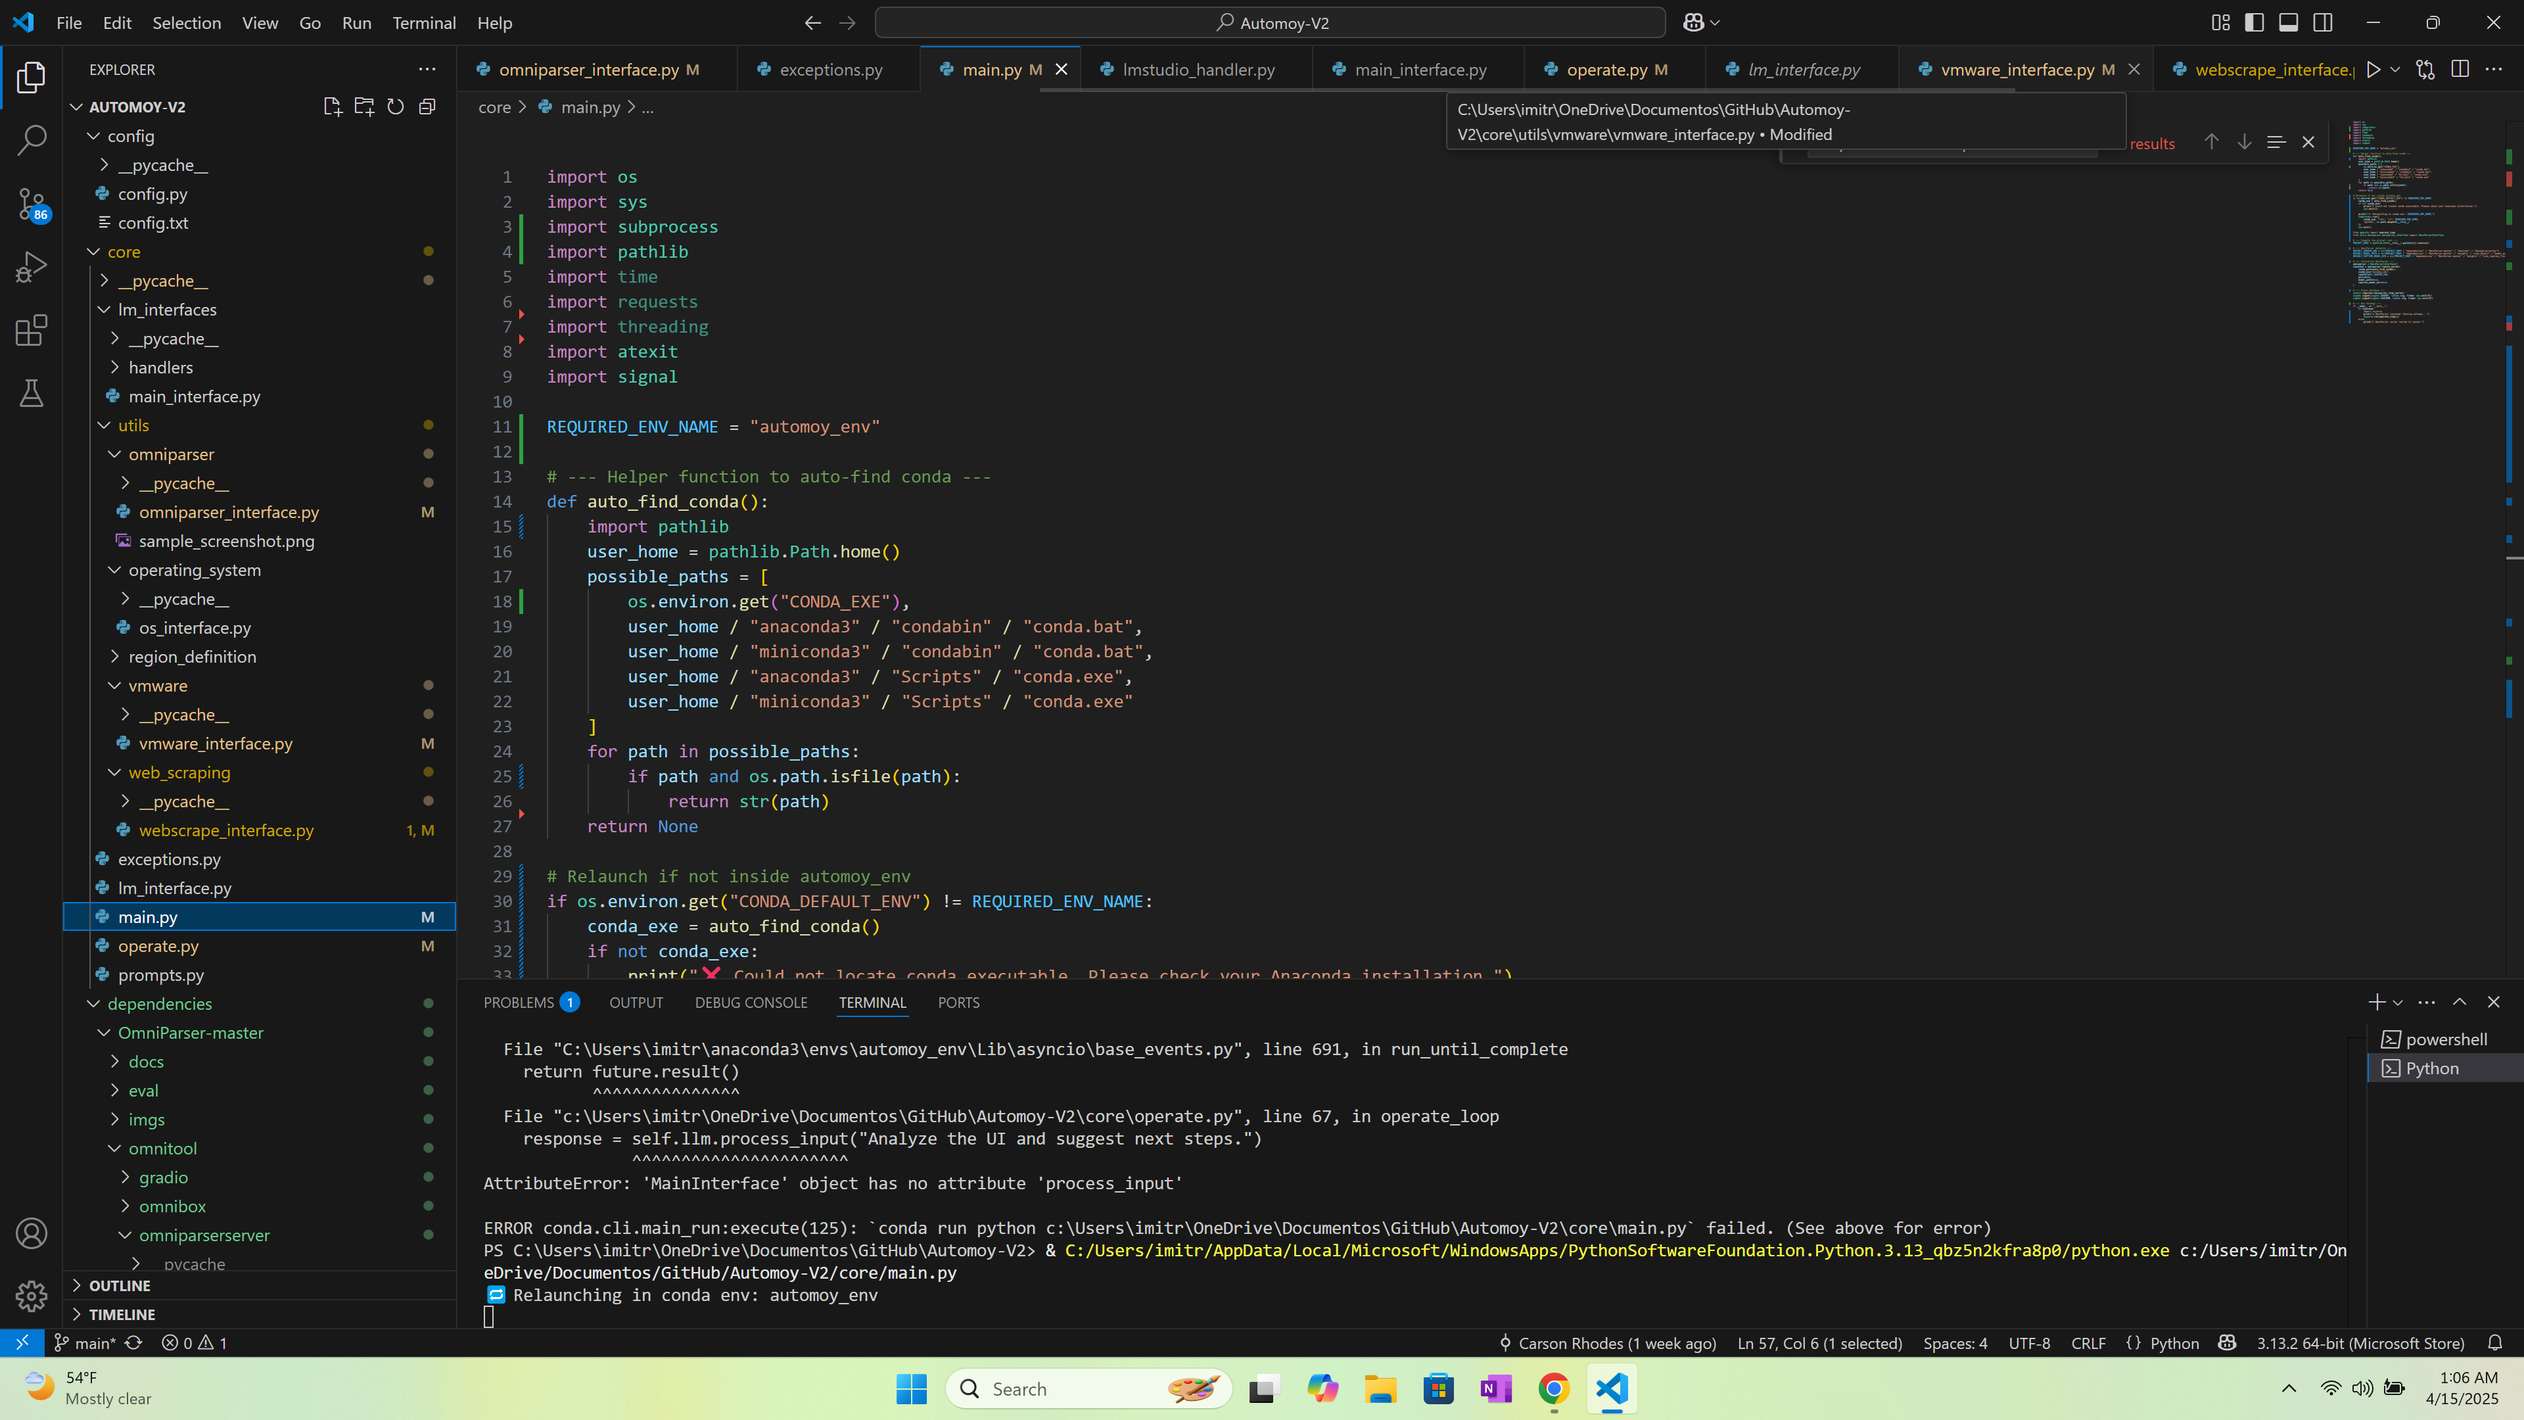
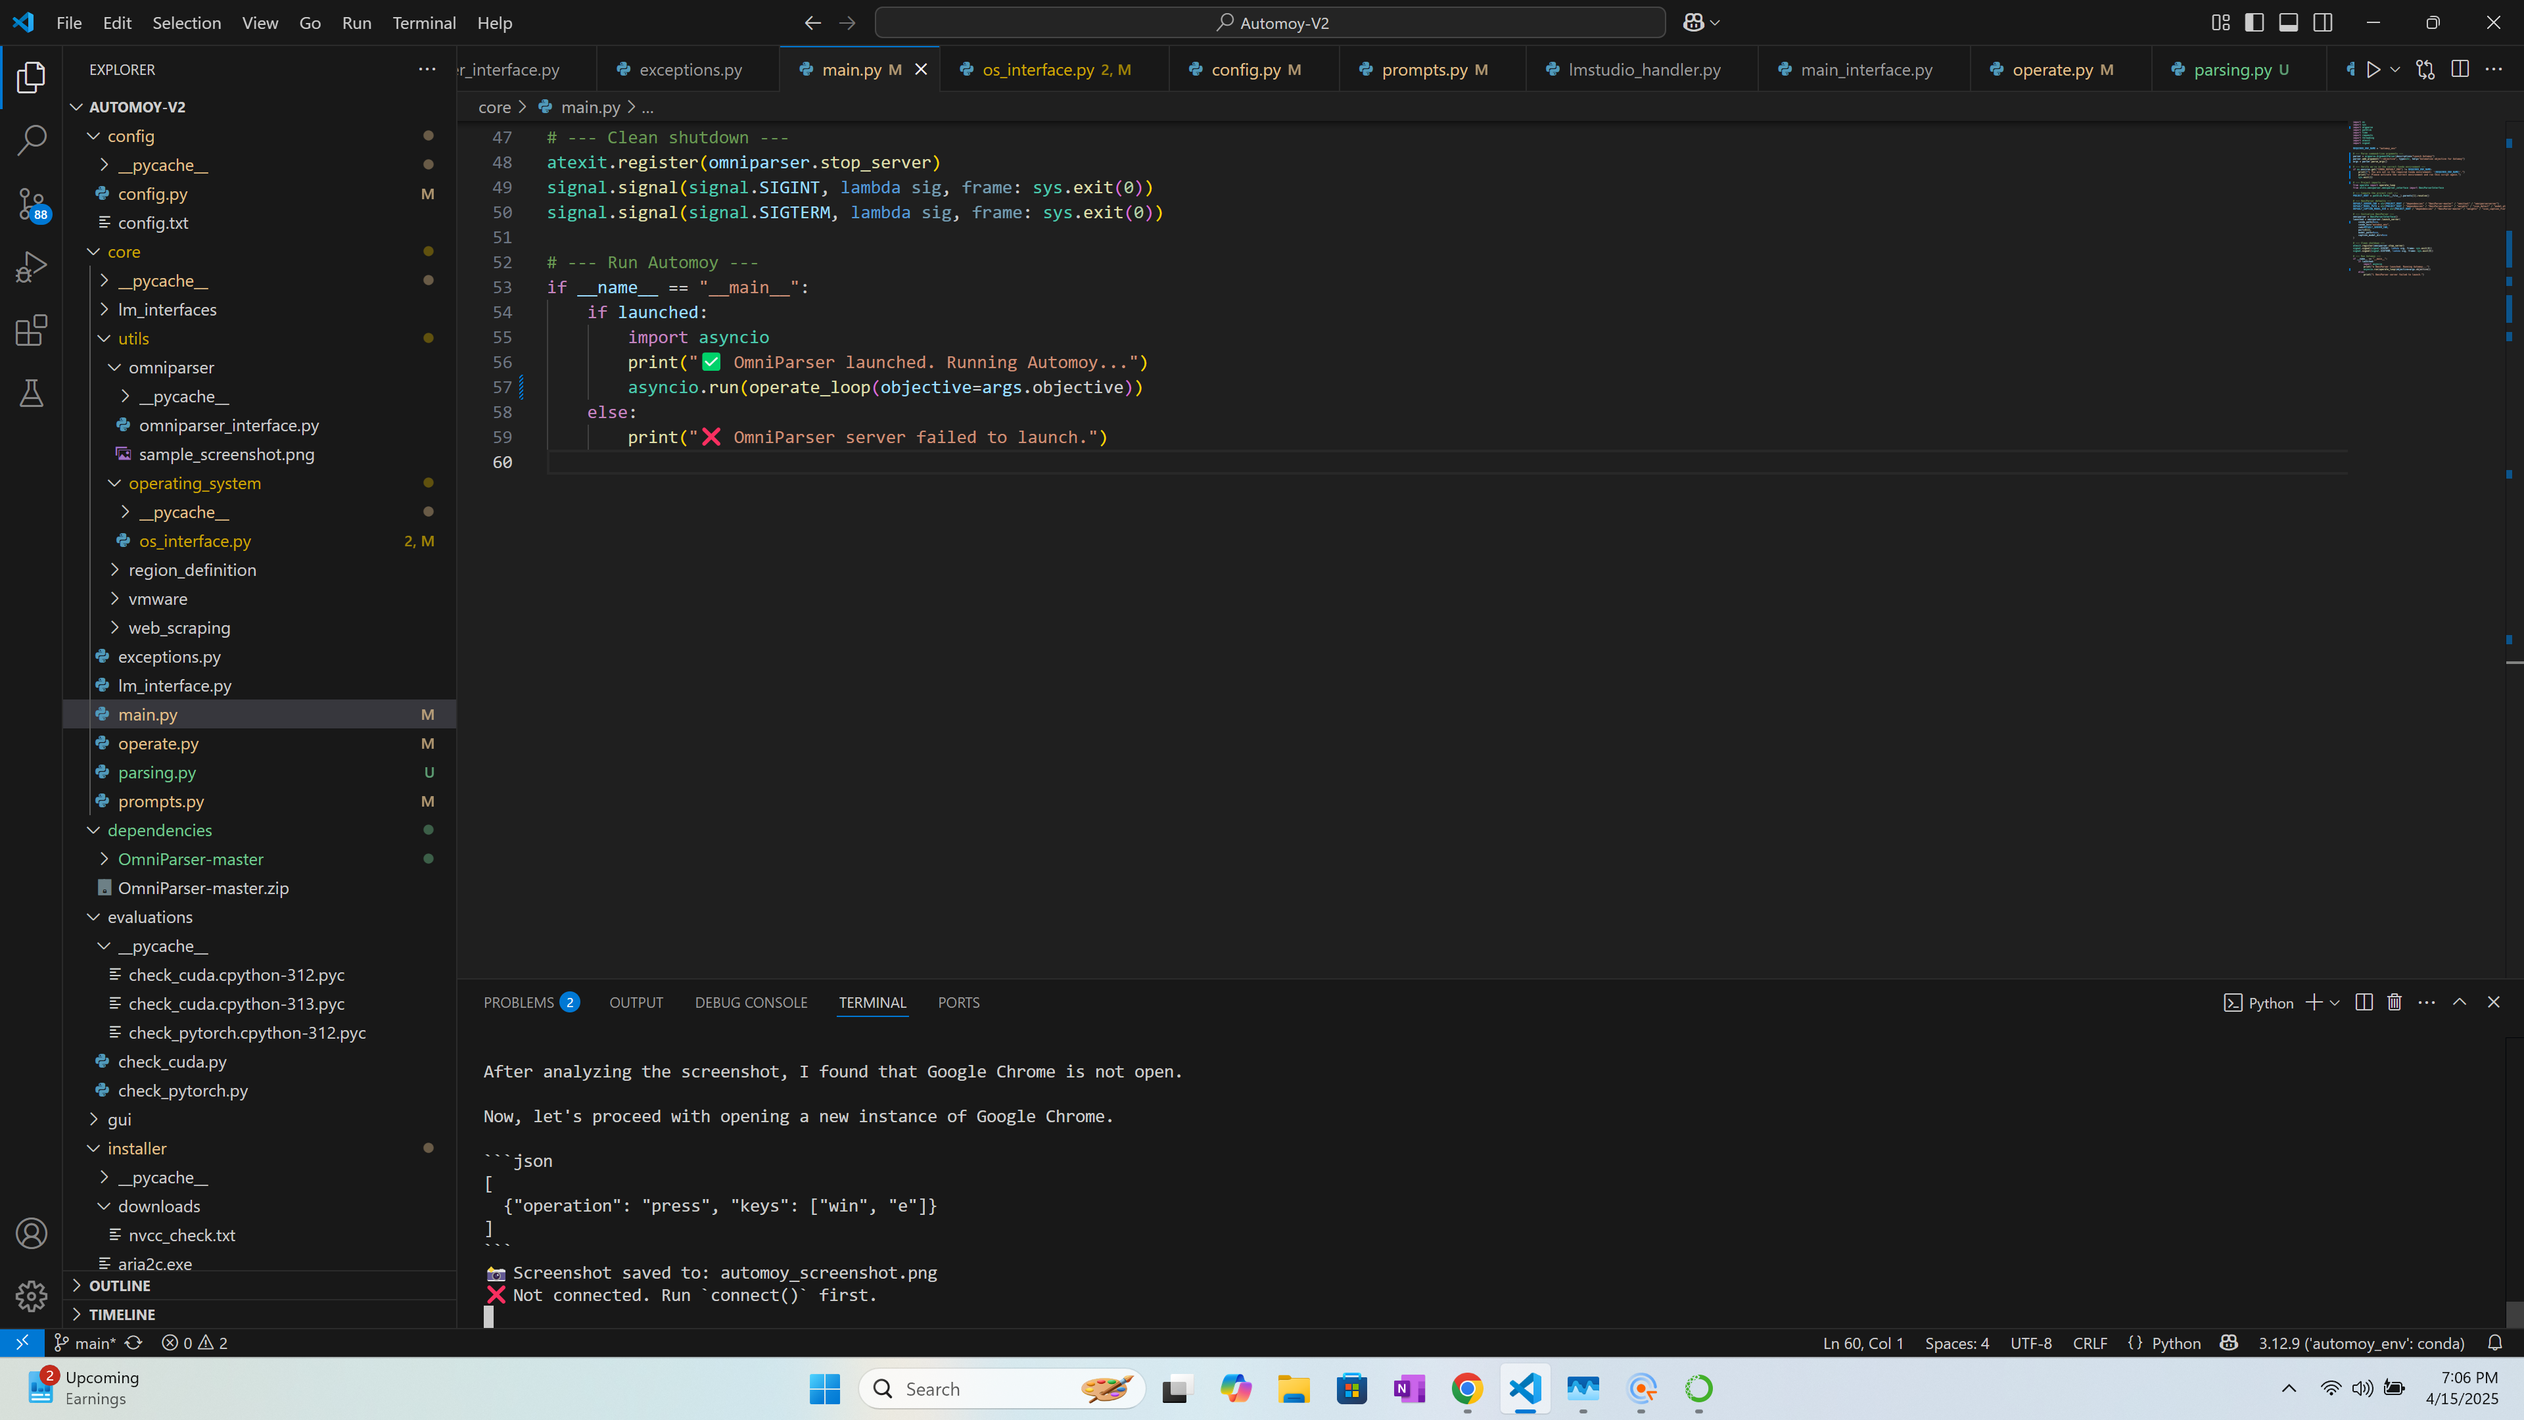
Much further along, now just resolve omniparser bugs and make a interaction layer for the screen and the selected region.

diff --git a/core/operate.py b/core/operate.py
@@ -1,22 +1,32 @@
 import asyncio
 import time
+import json
+import re
 from utils.operating_system.os_interface import OSInterface
 from utils.omniparser.omniparser_interface import OmniParserInterface
 from utils.vmware.vmware_interface import VMWareInterface
 from utils.web_scraping.webscrape_interface import WebScrapeInterface
 from lm_interfaces.main_interface import MainInterface
+from prompts import get_system_prompt
+from parsing import handle_llm_response  # 🔧 new import
+import sys
+import pathlib
+
+sys.path.append(str(pathlib.Path(__file__).resolve().parents[1] / "config"))
+from config import Config
 
 class AutomoyOperator:
-    def __init__(self):
-        """Initialize Automoy's core interfaces."""
+    def __init__(self, objective=None):
         self.os_interface = OSInterface()
         self.omniparser = OmniParserInterface()
-        self.vmware = VMWareInterface("localhost", "user", "password")  # replace with real creds if needed
+        self.vmware = VMWareInterface("localhost", "user", "password")
         self.webscraper = WebScrapeInterface()
         self.llm = MainInterface()
+        self.config = Config()
+        self.model = self.config.get("MODEL", "gpt-4")
+        self.objective = objective
 
     async def startup_sequence(self):
-        """Run startup checks and ensure all modules are ready."""
         print("🚀 Automoy Starting Up...")
         print(f"Detected OS: {self.os_interface.os_type}")
 
@@ -34,13 +44,18 @@ class AutomoyOperator:
         print("✅ All systems ready!")
 
     async def operate_loop(self):
-        """Main operational loop of Automoy."""
         await self.startup_sequence()
         print("🔥 Entering Automoy Autonomous Operation Mode!")
 
+        if not self.objective:
+            try:
+                self.objective = input("🎯 Enter your automation objective: ")
+            except EOFError:
+                self.objective = "Default objective - Automate screen flow"
+                print("⚠ No input received. Using default objective.")
+
         while True:
             try:
-                # 1. Screenshot -> OmniParser -> Click Buttons
                 screenshot_path = self.os_interface.take_screenshot("automoy_screenshot.png")
                 ui_data = self.omniparser.parse_screenshot(screenshot_path)
 
@@ -50,7 +65,6 @@ class AutomoyOperator:
                         content = entry.get("content", "")
                         position = entry.get("position", {})
                         x, y = position.get("x"), position.get("y")
-
                         print(f" - [{entry['type'].upper()}] '{content}' at ({x}, {y})")
 
                         if entry["type"] == "button":
@@ -58,31 +72,27 @@ class AutomoyOperator:
                             self.os_interface.click_mouse()
                             time.sleep(0.5)
 
-                # 2. Web scraping (real logic)
                 raw_html_text = self.webscraper.fetch_page_content("https://example.com")
                 if raw_html_text:
                     print("🌐 Scraped Content Preview:", raw_html_text[:300])
 
-                # 3. Ask LLM (placeholder)
-                messages = ["Analyze the UI and suggest next steps."]
-                objective = "Autonomously control and interpret UI"
-                session_id = "session-001"
-                screenshot_path = "automoy_screenshot.png"
+                system_prompt = get_system_prompt(self.model, self.objective)
+                messages = [
+                    {"role": "system", "content": system_prompt},
+                    {"role": "user", "content": "Analyze the UI and suggest next steps."}
+                ]
 
-                response, _, _ = await self.llm.get_next_action(
-                    model="gpt-4",
+                response_text, _, _ = await self.llm.get_next_action(
+                    model=self.model,
                     messages=messages,
-                    objective=objective,
-                    session_id=session_id,
+                    objective=self.objective,
+                    session_id="automoy-session-1",
                     screenshot_path=screenshot_path
                 )
-                print("🤖 LLM Response:", response)
 
-                # 4. Basic OS automation
-                self.os_interface.press("enter")
-                print("⌨ Simulated Enter Key Press")
+                print("🧠 LLM Response:", response_text)
+                handle_llm_response(response_text, self.os_interface)
 
-                # 5. VMWare Integration (optional)
                 vm_list = self.vmware.list_vms()
                 if vm_list:
                     print("🖥 Available VMs:", vm_list)
@@ -93,9 +103,8 @@ class AutomoyOperator:
                 print("\n🛑 Automoy Operation Halted.")
                 break
 
-# Module-level callable for external run
-def operate_loop():
-    operator = AutomoyOperator()
+def operate_loop(objective=None):
+    operator = AutomoyOperator(objective=objective)
     return operator.operate_loop()
 
 if __name__ == "__main__":

diff --git a/core/main.py b/core/main.py
@@ -1,6 +1,6 @@
 import os
 import sys
-import subprocess
+import argparse
 import pathlib
 import time
 import requests
@@ -10,36 +10,18 @@ import signal
 
 REQUIRED_ENV_NAME = "automoy_env"
 
-# --- Helper function to auto-find conda ---
-def auto_find_conda():
-    import pathlib
-    user_home = pathlib.Path.home()
-    possible_paths = [
-        os.environ.get("CONDA_EXE"),
-        user_home / "anaconda3" / "condabin" / "conda.bat",
-        user_home / "miniconda3" / "condabin" / "conda.bat",
-        user_home / "anaconda3" / "Scripts" / "conda.exe",
-        user_home / "miniconda3" / "Scripts" / "conda.exe"
-    ]
-    for path in possible_paths:
-        if path and os.path.isfile(path):
-            return str(path)
-    return None
+# --- Parse command-line arguments ---
+parser = argparse.ArgumentParser(description="Launch Automoy")
+parser.add_argument("--objective", type=str, help="Automation objective for Automoy")
+args = parser.parse_args()
 
-# Relaunch if not inside automoy_env
+# --- Verify we're in the correct Conda environment ---
 if os.environ.get("CONDA_DEFAULT_ENV") != REQUIRED_ENV_NAME:
-    conda_exe = auto_find_conda()
-    if not conda_exe:
-        print("❌ Could not locate conda executable. Please check your Anaconda installation.")
-        sys.exit(1)
+    print(f"❌ You are not in the required Conda environment: '{REQUIRED_ENV_NAME}'.")
+    print("💡 Please activate the correct environment and run this script again.")
+    sys.exit(1)
 
-    print(f"🔁 Relaunching in conda env: {REQUIRED_ENV_NAME}")
-    subprocess.run([
-        conda_exe, "run", "-n", REQUIRED_ENV_NAME,
-        "python", os.path.abspath(__file__)
-    ])
-    sys.exit()
-
+# --- Project imports ---
 from operate import operate_loop
 from utils.omniparser.omniparser_interface import OmniParserInterface
 
@@ -54,7 +36,7 @@ DEFAULT_CAPTION_MODEL_DIR = str(PROJECT_ROOT / "dependencies" / "OmniParser-mast
 # --- Initialize OmniParser ---
 omniparser = OmniParserInterface()
 launched = omniparser.launch_server(
-    conda_path=auto_find_conda(),
+    conda_path=None,
     conda_env="automoy_env",
     cwd=DEFAULT_SERVER_CWD,
     port=8111,
@@ -72,6 +54,6 @@ if __name__ == "__main__":
     if launched:
         import asyncio
         print("✅ OmniParser launched. Running Automoy...")
-        asyncio.run(operate_loop())
+        asyncio.run(operate_loop(objective=args.objective))
     else:
         print("❌ OmniParser server failed to launch.")

diff --git a/core/prompts.py b/core/prompts.py
@@ -1,5 +1,8 @@
 import platform
-from operate.config import Config
+import sys
+import pathlib
+sys.path.append(str(pathlib.Path(__file__).resolve().parents[1] / "config"))
+from config import Config
 
 # Load configuration
 config = Config()
@@ -18,7 +21,7 @@ using third-party object detection and text recognition. You produce JSON-based 
 - **CONFIRMATION REQUIRED:** If you need a screenshot of the current screen, produce a single JSON array code fence:
   ```json
   [
-    {"operation": "take_screenshot", "reason": "Need to see what's on the screen"}
+    {{"operation": "take_screenshot", "reason": "Need to see what's on the screen"}}
   ]
   ```
   If no screenshot is needed, proceed.
@@ -33,7 +36,7 @@ using third-party object detection and text recognition. You produce JSON-based 
 
 ```json
 [
-  {"operation": "press", "keys": ["win", "r"]}
+  {{"operation": "press", "keys": ["win", "r"]}}
 ]
 ```
 
@@ -47,41 +50,41 @@ using third-party object detection and text recognition. You produce JSON-based 
 1) **click** – Click a recognized UI text element.
    ```json
    [
-     {"operation": "click", "text": "Search Google or type a URL"}
+     {{"operation": "click", "text": "Search Google or type a URL"}}
    ]
    ```
    - If no text is available, you can fallback to location-based:
    ```json
    [
-     {"operation": "click", "location": "X Y"}
+     {{"operation": "click", "location": "X Y"}}
    ]
    ```
 
 2) **write** – Type text into an input field.
    ```json
    [
-     {"operation": "write", "text": "Los Angeles"}
+     {{"operation": "write", "text": "Los Angeles"}}
    ]
    ```
 
 3) **press** – Simulate key presses.
    ```json
    [
-     {"operation": "press", "keys": ["ctrl", "l"]}
+     {{"operation": "press", "keys": ["ctrl", "l"]}}
    ]
    ```
 
 4) **take_screenshot** – Capture the screen for updated context.
    ```json
    [
-     {"operation": "take_screenshot", "reason": "Need to see what's on the screen"}
+     {{"operation": "take_screenshot", "reason": "Need to see what's on the screen"}}
    ]
    ```
 
 5) **done** – Mark the task complete.
    ```json
    [
-     {"operation": "done", "summary": "Task complete."}
+     {{"operation": "done", "summary": "Task complete."}}
    ]
    ```
 

diff --git a/core/parsing.py b/core/parsing.py
@@ -1,0 +1,46 @@
+import json
+import re
+
+def handle_llm_response(response, os_interface):
+    try:
+        code_block = re.search(r"```json\s*(.*?)\s*```", response, re.DOTALL)
+        if not code_block:
+            print("⚠ Could not extract a valid JSON action from LLM response.")
+            return
+
+        action_list = json.loads(code_block.group(1))
+        action = action_list[0]
+        op_type = action.get("operation")
+
+        if op_type == "press":
+            keys = action.get("keys", [])
+            for key in keys:
+                os_interface.press(key)
+            print(f"⌨ Simulated Key Press: {keys}")
+
+        elif op_type == "click":
+            if "location" in action:
+                x, y = map(int, action["location"].split())
+                os_interface.move_mouse(x, y, duration=0.3)
+                os_interface.click_mouse()
+                print(f"🖱 Clicked at ({x}, {y})")
+            else:
+                print(f"🖱 Text-based click requested: {action.get('text')} (not yet implemented)")
+
+        elif op_type == "write":
+            text = action.get("text", "")
+            os_interface.type_text(text)
+            print(f"⌨ Typed text: {text}")
+
+        elif op_type == "take_screenshot":
+            path = os_interface.take_screenshot("automoy_screenshot.png")
+            print(f"📸 Screenshot saved to: {path}")
+
+        elif op_type == "done":
+            print(f"✅ Task marked complete. Summary: {action.get('summary', '')}")
+
+        else:
+            print(f"⚠ Unknown operation type: {op_type}")
+
+    except Exception as e:
+        print(f"❌ Error parsing or executing LLM response: {e}")

diff --git a/config/config.py b/config/config.py
@@ -35,6 +35,18 @@ class Config:
     def get(self, key, default=None):
         """Retrieve a configuration value with an optional default."""
         return self.config_data.get(key, default)
+    
+    def get_api_source(self):
+        """
+        Determines which LLM API to use based on available keys.
+        Returns a tuple: (source, value) where source is 'openai' or 'lmstudio'
+        """
+        if self.get("OPENAI_API_KEY"):
+            return "openai", self.get("OPENAI_API_KEY")
+        elif self.get("LMSTUDIO_API_URL"):
+            return "lmstudio", self.get("LMSTUDIO_API_URL")
+        else:
+            raise ValueError("No valid API configuration found.")
 
 # Example Usage:
 if __name__ == "__main__":

diff --git a/core/utils/operating_system/os_interface.py b/core/utils/operating_system/os_interface.py
@@ -5,6 +5,7 @@ import ctypes
 import mouse
 import pyperclip
 import pyscreeze
+import keyboard
 
 class OSInterface:
     def __init__(self):
